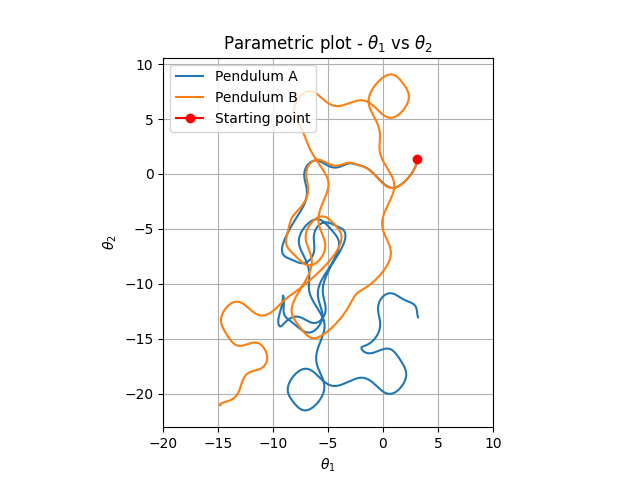
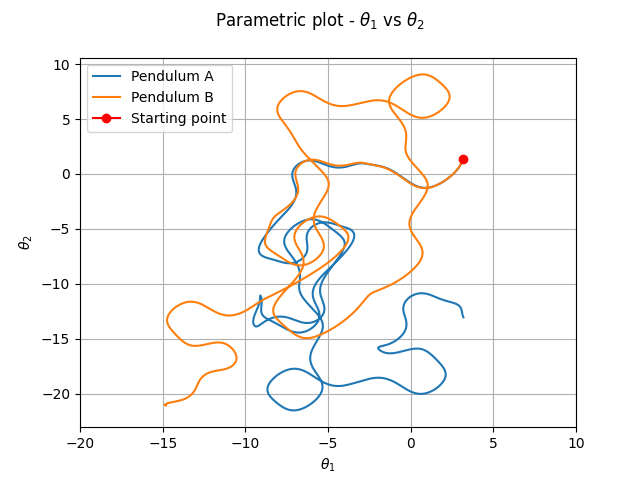
jan2 update 3

diff --git a/Python codes/two_pendula.py b/Python codes/two_pendula.py
@@ -1,15 +1,15 @@
 """ 
 This code aims to compare four pendula with different initial conditions.
-It simulates the dynamics of two double pendulum systems and plots the results.
+It simulates the dynamics of *two* double pendulum systems and plots the results.
 
-This code produces 6 files : 
+Running this code produces 6 files : 
 
 1. <angles1_velocities1.png> : four subplots for each angles and angular velocities with respect to time
 2. <angles2_velocities2.png> : same as 1. but for another double pendulum
 3. <four_brownian_motion.png> : theta_1 vs theta_2 plot, illustrates the brownian motion of the system
 4. <four_energy_loss.png> : total energy losses due to the numerical model's inaccuracy
-5. <four_XY_paths.png> : four subplots of 2D-cartesian trajectories for each double pendulum
-6. <four_pendula.gif> : animation of the four pendulums' movements (20 seconds)
+5. <four_XY_paths.png> : two subplots of 2D-cartesian trajectories for each double pendulum
+6. <four_pendula.gif> : animation of the four pendula's movements (20 seconds)
 
 """
 
@@ -33,17 +33,31 @@ t = np.linspace(0, t_max, N)
 
 ### Initial conditions
 
-# Pendulum 1
+# Initial angles templates
+critical = 1.4
+high = np.pi
+small = 0.1
+
+# Angle offset
+big = 0.1
+small = 0.001
+
+# Choosing between templates
+angle = high #change at will
+delta = big #change at will
+thetas = [angle + i*delta for i in range(2)]
+
+# Pendulum A
 w1_0 = 0
 w2_0 = 0
-th1_0 = np.pi
-th2_0 = 1.4
+th1_0 = thetas[0]
+th2_0 = thetas[0]
 u0 = np.array([w1_0, w2_0, th1_0, th2_0])
-# Pendulum 2
+# Pendulum B
 w11_0 = 0
 w22_0 = 0
-th11_0 = np.pi
-th22_0 = 1.5
+th11_0 = thetas[1]
+th22_0 = thetas[1]
 u00 = np.array([w11_0, w22_0, th11_0, th22_0])
 
 ### Defining functions to solve the differential equation
@@ -61,7 +75,7 @@ def F_deriv(w1, w2, th1, th2):
     
     return np.array([w1_dot, w2_dot, w1, w2])
 
-def solve_RK4(f, u0, h, t):
+def solve_RK4(f, u0, h):
     """ Solves the differential equation using the Runge-Kutta 4th order method """
     u = np.zeros((N,4))
     u[0] = u0
@@ -74,8 +88,8 @@ def solve_RK4(f, u0, h, t):
     return u
 
 ### Solving the differential equation and storing the solutions in u1
-u1 = solve_RK4(F_deriv, u0, h, t)
-u11 = solve_RK4(F_deriv, u00, h, t)
+u1 = solve_RK4(F_deriv, u0, h)
+u11 = solve_RK4(F_deriv, u00, h)
 
 # Pendulum 1
 th1 = u1[:,2] 
@@ -143,19 +157,17 @@ fig.tight_layout()
 fig.savefig("angles1_velocities1.png")
 
 ### Brownian Motion plot (th1 vs th2) ###
-fig, ax = plt.subplots()
-ax.plot(th1, th2, label = "Pendulum A")
-ax.plot(th11, th22, label = "Pendulum B")
-ax.plot(th1[0], th2[0], "-o", label = "Starting point", color = "red")
-ax.set_title(r"Parametric plot - $\theta_1$ vs $\theta_2$")
-ax.set_xlabel(r"$\theta_1$")
-ax.set_ylabel(r"$\theta_2$")
-ax.set_xlim(-20, 10)
-ax.set_aspect('equal')
-ax.legend()
-ax.grid()
-fig.savefig("two_brownian_motion.png")
-
+plt.figure()
+plt.plot(th1, th2, label = "Pendulum A")
+plt.plot(th11, th22, label = "Pendulum B")
+plt.plot(th1[0], th2[0], "-o", label = "Starting point", color = "red")
+plt.suptitle(r"Parametric plot - $\theta_1$ vs $\theta_2$")
+plt.xlabel(r"$\theta_1$")
+plt.ylabel(r"$\theta_2$")
+plt.xlim(-20, 10)
+plt.legend()
+plt.grid()
+plt.savefig("two_brownian_motion.png")
 
 ### Positions in cartesian coordinates ---------------------------------------------------------------------
 

diff --git a/Python codes/the_complete_code.py b/Python codes/the_complete_code.py
@@ -2,8 +2,6 @@
 This code is the main complete code for the Double Pendulum project.
 By "complete", we mean that this code is self-sufficient and can be run as is.
 
-For clarity, the repository is divided into several modules, that are copy-pasted here.
-
 This code simulates the dynamics of one double pendulum system 
 and produces 5 files:
 
@@ -30,12 +28,13 @@ g = 9.81
 t_max = 20
 h = 0.02 # Not smaller than that for the gif
 N = int(np.floor(t_max/h))+1
+t = np.linspace(0, t_max, N)
 
 # Initial conditions
 w1_0 = 0
 w2_0 = 0
-th1_0 = 1.4
-th2_0 = 1.4
+th1_0 = np.pi
+th2_0 = np.pi
 u0 = np.array([w1_0, w2_0, th1_0, th2_0])
 
 """
@@ -60,11 +59,9 @@ def F_deriv(w1, w2, th1, th2):
     
     return np.array([w1_dot, w2_dot, w1, w2])
 
-def solve_RK4(f, u0, h, t_max):
+def solve_RK4(f, u0, h):
     """ Solves the differential equation using the Runge-Kutta 4th order method """
 
-    N = int(np.floor(t_max / h)) + 1 # Redundant definition of the already globally defined N
-    t = np.linspace(0, t_max, N)
     u = np.zeros((N,4))
     u[0] = u0
     for i in range(N - 1):
@@ -76,7 +73,7 @@ def solve_RK4(f, u0, h, t_max):
     return t, u
 
 ### Solving the differential equation and storing the solutions in u1
-t, u = solve_RK4(F_deriv, u0, h, t_max)
+t, u = solve_RK4(F_deriv, u0, h)
 
 th1 = u[:,2] 
 th2 = u[:,3]
@@ -88,21 +85,25 @@ fig, ax = plt.subplots(2, 2)
 
 ax[0, 0].plot(t, w1)
 ax[0, 0].set_xlabel("Time (s)")
+ax[0, 0].set_ylabel("Angular velocity (rad/s)")
 ax[0, 0].set_title(r"$\omega_1$")
 ax[0, 0].grid()
     
 ax[0, 1].plot(t, w2)
 ax[0, 1].set_xlabel("Time (s)")
+ax[0, 1].set_ylabel("Angle (rad)")
 ax[0, 1].set_title(r"$\omega_2$")
 ax[0, 1].grid()
     
 ax[1, 0].plot(t, th1)
 ax[1, 0].set_xlabel("Time (s)")
+ax[1, 0].set_ylabel("Angular velocity (rad/s)")
 ax[1, 0].set_title(r"$\theta_1$")
 ax[1, 0].grid()
     
 ax[1, 1].plot(t, th2)
 ax[1, 1].set_xlabel("Time (s)")
+ax[1, 1].set_ylabel("Angle (rad)")
 ax[1, 1].set_title(r"$\theta_2$")
 ax[1, 1].grid()
 
@@ -114,7 +115,7 @@ fig.savefig("angles_velocities.png")
 fig, ax = plt.subplots()
 ax.plot(th1, th2)
 ax.plot(th1[0], th2[0], "-o", label = "Starting point", color = "red")
-ax.set_title("Brownian motion of the double pendulum")
+ax.set_title(r"Parametric plot - $\theta_1$ vs $\theta_2$")
 ax.set_xlabel(r"$\theta_1$")
 ax.set_ylabel(r"$\theta_2$")
 ax.legend()

diff --git a/Python codes/four_pendula.py b/Python codes/four_pendula.py
@@ -33,29 +33,43 @@ t = np.linspace(0, t_max, N)
 
 ### Initial conditions
 
+# Initial angles templates
+critical = 1.4
+high = np.pi
+small = 0.1
+
+# Angle offset
+big = 0.1
+small = 0.001
+
+# Choosing between templates
+angle = high #change at will
+delta = big #change at will
+thetas = [angle + i*delta for i in range(4)]
+
 # Pendulum A
 w1_0 = 0
 w2_0 = 0
-th1_0 = 1.3 + 0.1
-th2_0 = 1.3 + 0.1
+th1_0 = thetas[0]
+th2_0 = thetas[0]
 u0 = np.array([w1_0, w2_0, th1_0, th2_0])
 # Pendulum B
 w11_0 = 0
 w22_0 = 0
-th11_0 = 1.3 + 0.2
-th22_0 = 1.3 + 0.2
+th11_0 = thetas[1]
+th22_0 = thetas[1]
 u00 = np.array([w11_0, w22_0, th11_0, th22_0])
 # Pendulum C
 w111_0 = 0
 w222_0 = 0
-th111_0 = 1.3 + 0.3
-th222_0 = 1.3 + 0.3
+th111_0 = thetas[2]
+th222_0 = thetas[2]
 u000 = np.array([w111_0, w222_0, th111_0, th222_0])
 # Pendulum D
 w1111_0 = 0
 w2222_0 = 0
-th1111_0 = 1.3 + 0.4
-th2222_0 = 1.3 + 0.4
+th1111_0 = thetas[3]
+th2222_0 = thetas[3]
 u0000 = np.array([w1111_0, w2222_0, th1111_0, th2222_0])
 
 ### Defining functions to solve the differential equation
@@ -73,7 +87,7 @@ def F_deriv(w1, w2, th1, th2):
     
     return np.array([w1_dot, w2_dot, w1, w2])
 
-def solve_RK4(f, u0, h, t):
+def solve_RK4(f, u0, h):
     """ Solves the differential equation using the Runge-Kutta 4th order method """
     u = np.zeros((N,4))
     u[0] = u0
@@ -86,10 +100,10 @@ def solve_RK4(f, u0, h, t):
     return u
 
 ### Solving the differential equation and storing the solutions in u1
-u1 = solve_RK4(F_deriv, u0, h, t)
-u11 = solve_RK4(F_deriv, u00, h, t)
-u111 = solve_RK4(F_deriv, u000, h, t)
-u1111 = solve_RK4(F_deriv, u0000, h, t)
+u1 = solve_RK4(F_deriv, u0, h)
+u11 = solve_RK4(F_deriv, u00, h)
+u111 = solve_RK4(F_deriv, u000, h)
+u1111 = solve_RK4(F_deriv, u0000, h)
 
 # Pendulum A
 th1 = u1[:,2] 
